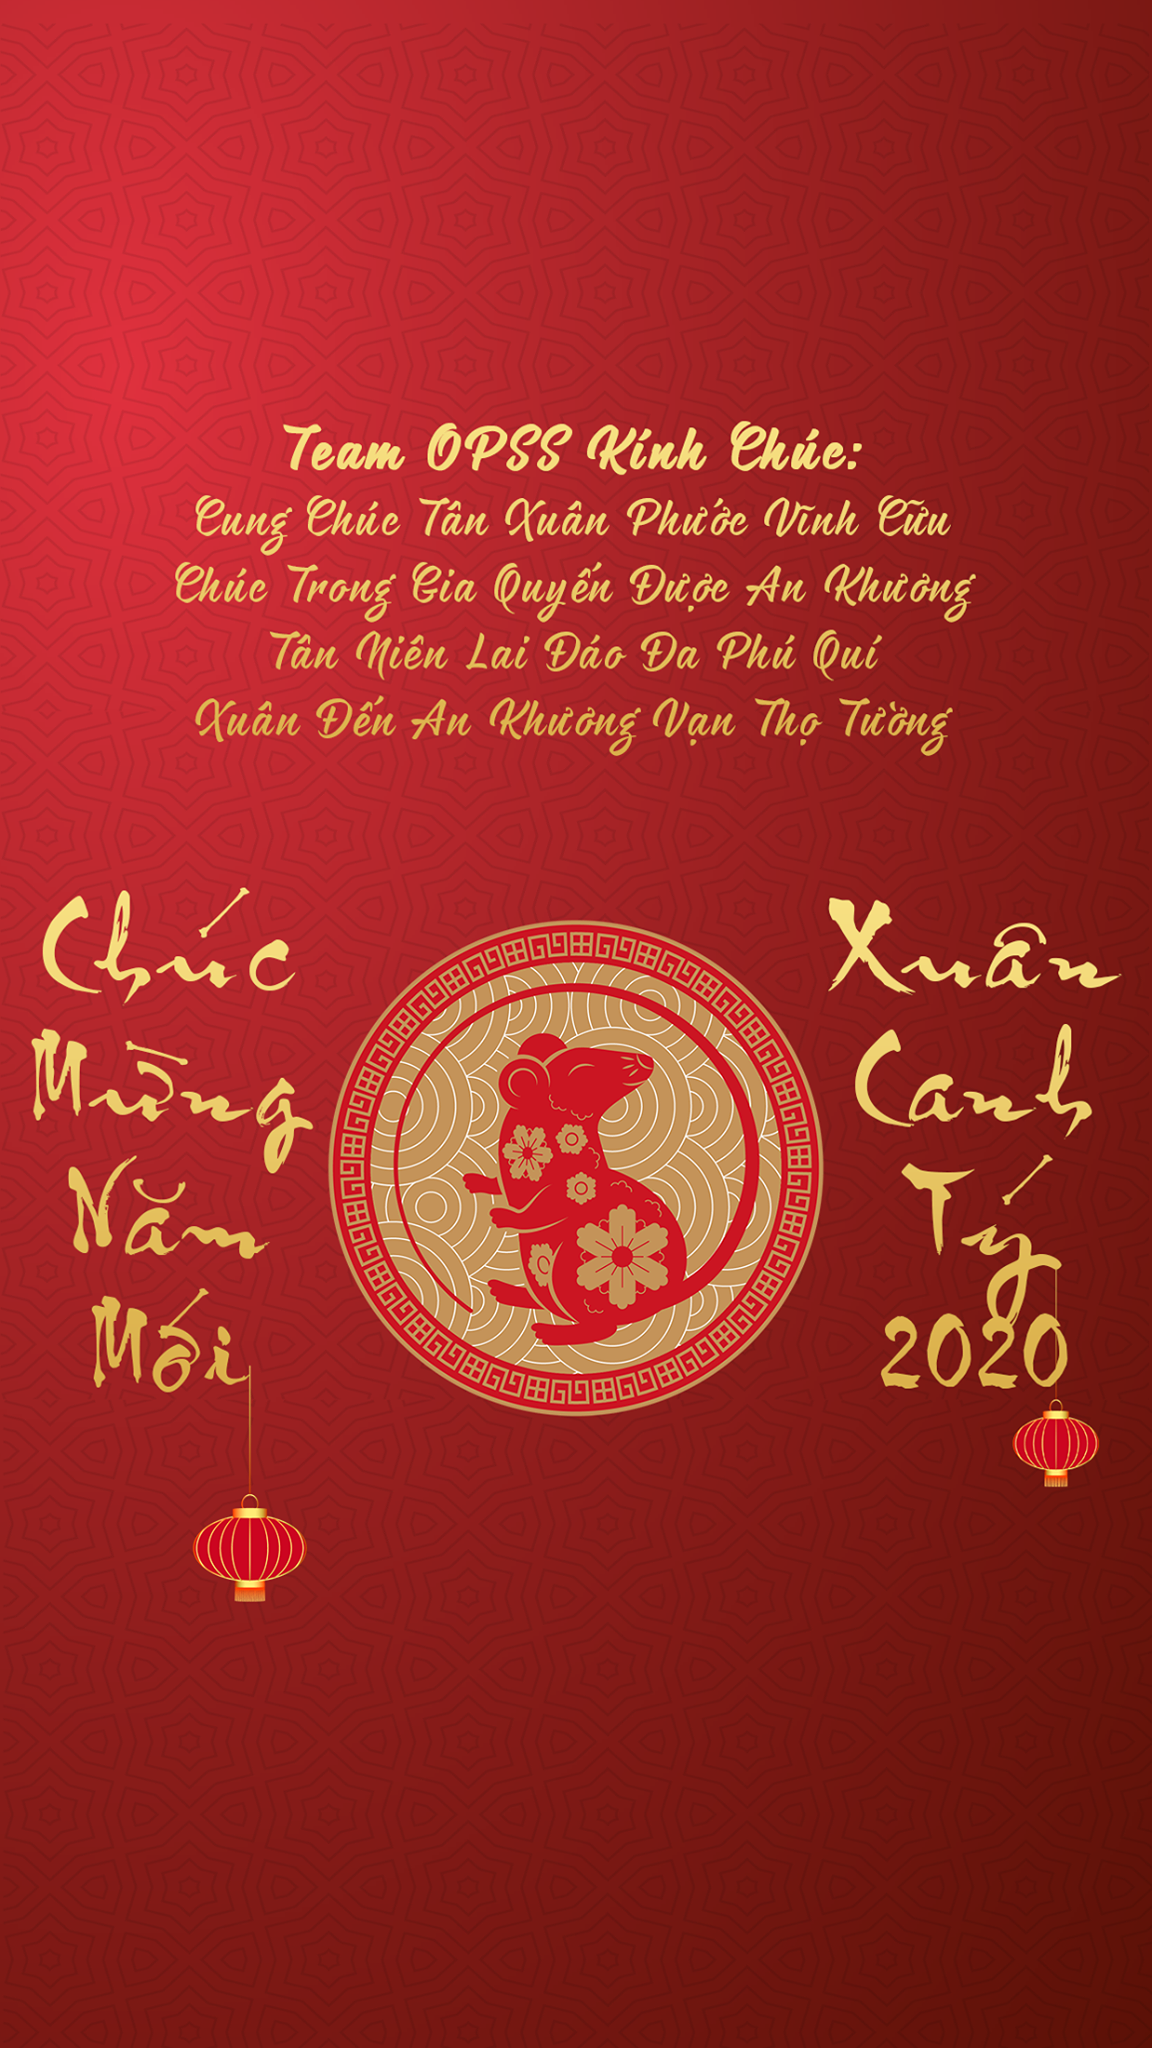
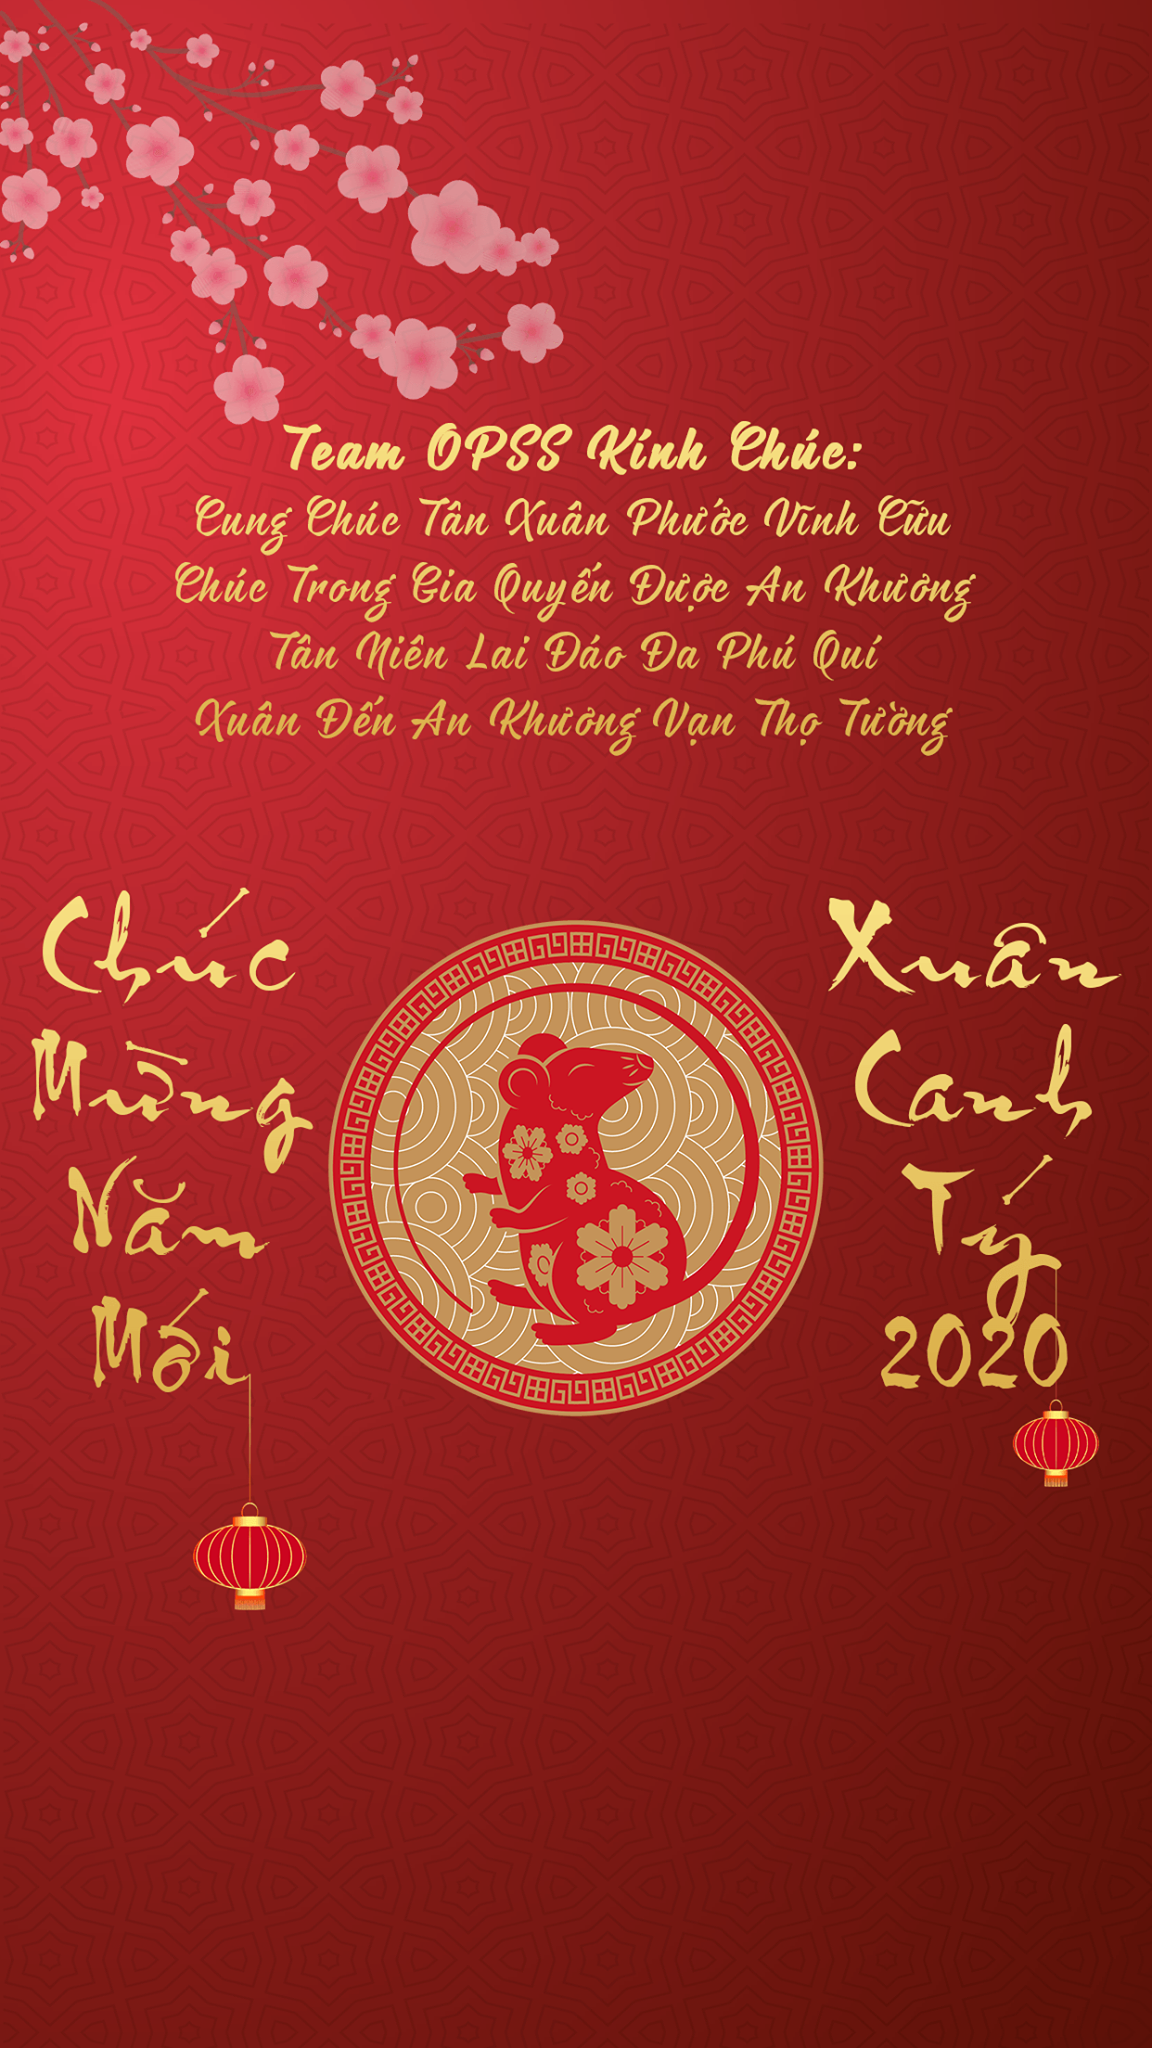
CMB-119 done countdown

Changed region(s): [[0.0, 0.0, 0.5, 0.2188], [0.1562, 0.7188, 0.2812, 0.7812]]

diff --git a/src/components/comingsoon/nofooter/comingsoon-nofooter.js b/src/components/comingsoon/nofooter/comingsoon-nofooter.js
@@ -15,8 +15,8 @@ class ComingSoonNoFooter extends Component {
   }
 
   countdownTimer = () => {
-    const difference = +new Date("2020-01-01") - +new Date();
-    let remaining = "Team OPSS xin chúc bạn một năm mới hạnh phúc";
+    const difference = +new Date("2020-01-25T00:00:00") - +new Date();
+    let remaining = undefined
 
     if (difference > 0) {
       let parts = {
@@ -30,16 +30,16 @@ class ComingSoonNoFooter extends Component {
         `
         <div class="count-down-wrapper">
           <div class="count-down-item">
-            <div class="count-down-item-value" style="color: #D68528;">${parts['days']}</div>
-            <div class="count-down-item-label" style="color: #D68528;">days</div>
+            <div class="count-down-item-value" style="color: #ECB253;">${parts['days']}</div>
+            <div class="count-down-item-label" style="color: #ECB253;">days</div>
           </div>
           <div class="count-down-item">
-            <div class="count-down-item-value" style="color: #DF9639;">${parts['hours']}</div>
-            <div class="count-down-item-label" style="color: #DF9639;">hours</div>
+            <div class="count-down-item-value" style="color: #ECB253;">${parts['hours']}</div>
+            <div class="count-down-item-label" style="color: #ECB253;">hours</div>
           </div>
           <div class="count-down-item">
-            <div class="count-down-item-value" style="color: #E8A84A;">${parts['minutes']}</div>
-            <div class="count-down-item-label" style="color: #E8A84A;">minutes</div>
+            <div class="count-down-item-value" style="color: #ECB253;">${parts['minutes']}</div>
+            <div class="count-down-item-label" style="color: #ECB253;">minutes</div>
           </div>
           <div class="count-down-item">
             <div class="count-down-item-value" style="color: #ECB253;">${parts['seconds']}</div>
@@ -49,8 +49,12 @@ class ComingSoonNoFooter extends Component {
       `
     }
     let timer = document.getElementById('count-down')
-    if (timer) {
+    if (timer && remaining) {
       timer.innerHTML = remaining
+    }
+    else {
+      let backGroundContainer = document.getElementsByClassName('background-wrapper')[0]
+      backGroundContainer.classList.add('times-up')
     }
   }
 
@@ -73,17 +77,16 @@ class ComingSoonNoFooter extends Component {
 
   render(){
     return (
-      <div className="wrapper" style={{    backgroundImage: 'url("/comingsoon-background.png")',
-        backgroundSize: 'cover',
+      <div className="background-wrapper" style={{backgroundSize: 'cover',
         backgroundPosition: 'center center',
         backgroundRepeat: 'no-repeat',}}>
-        <div className="coming-soon-header">
-          <img
-            className="coming-soon-header-image"
-            alt="Citigo"
-            src={require('../../../static/images/citigo.png')}
-            style={{width: '115px'}}
-          />
+        {/*<div className="coming-soon-header">*/}
+        {/*  <img*/}
+        {/*    className="coming-soon-header-image"*/}
+        {/*    alt="Citigo"*/}
+        {/*    src={require('../../../static/images/citigo.png')}*/}
+        {/*    style={{width: '115px'}}*/}
+        {/*  />*/}
           {/*<div className="coming-soon-header-image">*/}
           {/*  &nbsp;*/}
           {/*</div>*/}
@@ -93,7 +96,7 @@ class ComingSoonNoFooter extends Component {
           {/*  src={require('../../static/images/app-logo.png')}*/}
           {/*  style={{maxWidth: '70px'}}*/}
           {/*/>*/}
-        </div>
+        {/*</div>*/}
         <div id="count-down" style={{marginTop: '10px', 'color': '#ffffff', fontFamily: 'Roboto', textAlign: 'center'}}/>
         <div className="pyro">
           <div className="before"/>

diff --git a/src/components/comingsoon/index.js b/src/components/comingsoon/index.js
@@ -31,16 +31,16 @@ class ComingSoon extends Component {
         `
         <div class="count-down-wrapper">
           <div class="count-down-item">
-            <div class="count-down-item-value" style="color: #D68528;">${parts['days']}</div>
-            <div class="count-down-item-label" style="color: #D68528;">days</div>
+            <div class="count-down-item-value" style="color: #ECB253;">${parts['days']}</div>
+            <div class="count-down-item-label" style="color: #ECB253;">days</div>
           </div>
           <div class="count-down-item">
-            <div class="count-down-item-value" style="color: #DF9639;">${parts['hours']}</div>
-            <div class="count-down-item-label" style="color: #DF9639;">hours</div>
+            <div class="count-down-item-value" style="color: #ECB253;">${parts['hours']}</div>
+            <div class="count-down-item-label" style="color: #ECB253;">hours</div>
           </div>
           <div class="count-down-item">
-            <div class="count-down-item-value" style="color: #E8A84A;">${parts['minutes']}</div>
-            <div class="count-down-item-label" style="color: #E8A84A;">minutes</div>
+            <div class="count-down-item-value" style="color: #ECB253;">${parts['minutes']}</div>
+            <div class="count-down-item-label" style="color: #ECB253;">minutes</div>
           </div>
           <div class="count-down-item">
             <div class="count-down-item-value" style="color: #ECB253;">${parts['seconds']}</div>

diff --git a/src/components/comingsoon/nofooter/index.css b/src/components/comingsoon/nofooter/index.css
@@ -1,6 +1,26 @@
 @import url(https://fonts.googleapis.com/css?family=Pacifico);
 @import url('https://fonts.googleapis.com/css?family=Anton');
-.wrapper {
+.background-wrapper {
+    position: fixed;
+    top: 0;
+    left: 0;
+    width: 100vw;
+    height: calc(100vh);
+    margin: 0 !important;
+    padding: 0 !important;
+    background-image: url("../../../static/images/hpny.png");
+}
+.background-wrapper.times-up {
+    position: fixed;
+    top: 0;
+    left: 0;
+    width: 100vw;
+    height: calc(100vh);
+    margin: 0 !important;
+    padding: 0 !important;
+    background-image: url("../../../static/images/hpny-with-text.png");
+}
+.background-wrapper.times-up {
     position: fixed;
     top: 0;
     left: 0;
@@ -86,6 +106,7 @@
 .coming-soon-header-image {
 }
 .count-down-wrapper {
+    margin-top: 60px;
     width: calc(80vw);
     margin-right: calc(10vw);
     margin-left: calc(10vw);

diff --git a/src/components/comingsoon/index.css b/src/components/comingsoon/index.css
@@ -87,6 +87,7 @@
 .coming-soon-header-image {
 }
 .count-down-wrapper {
+    margin-top: 60px;
     width: calc(80vw);
     margin-right: calc(10vw);
     margin-left: calc(10vw);
